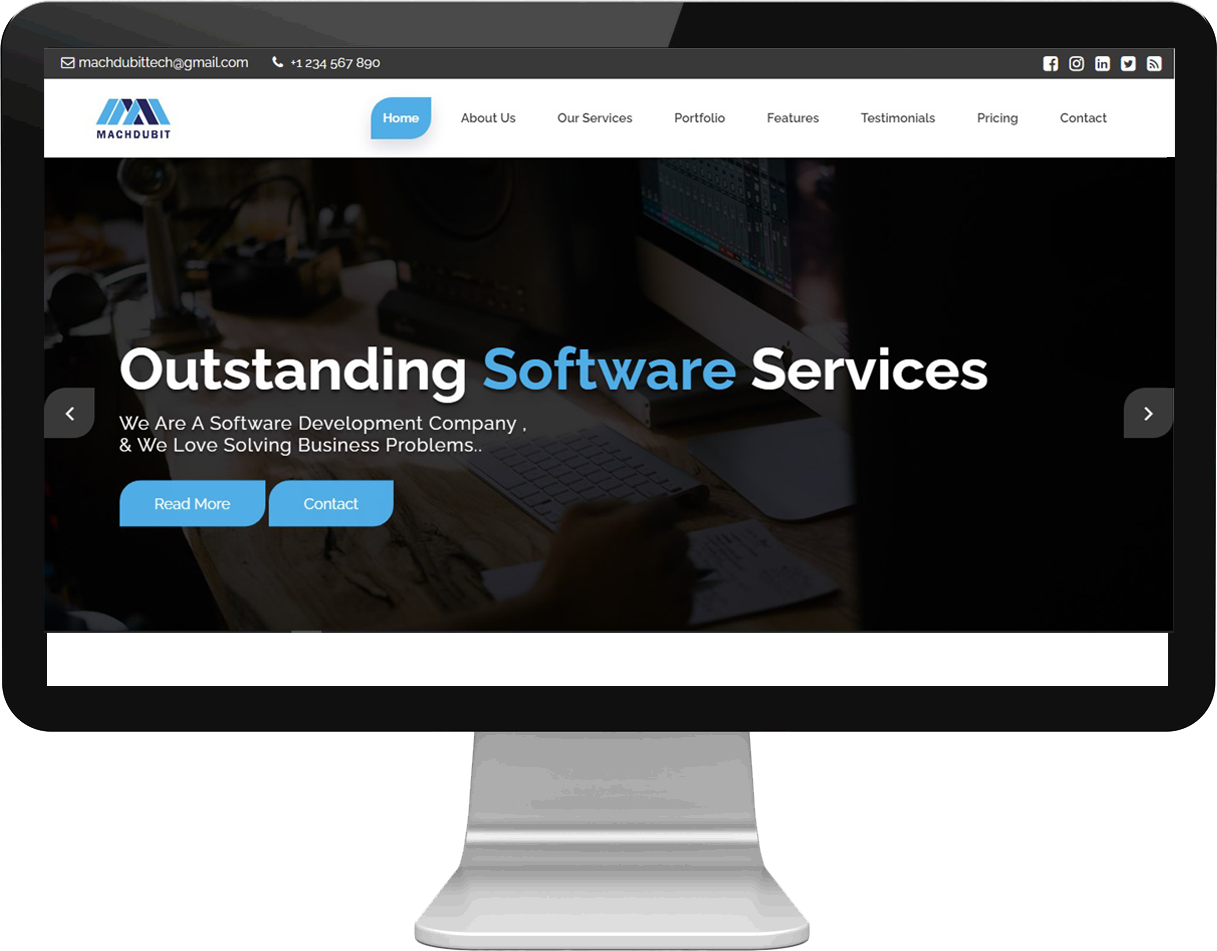
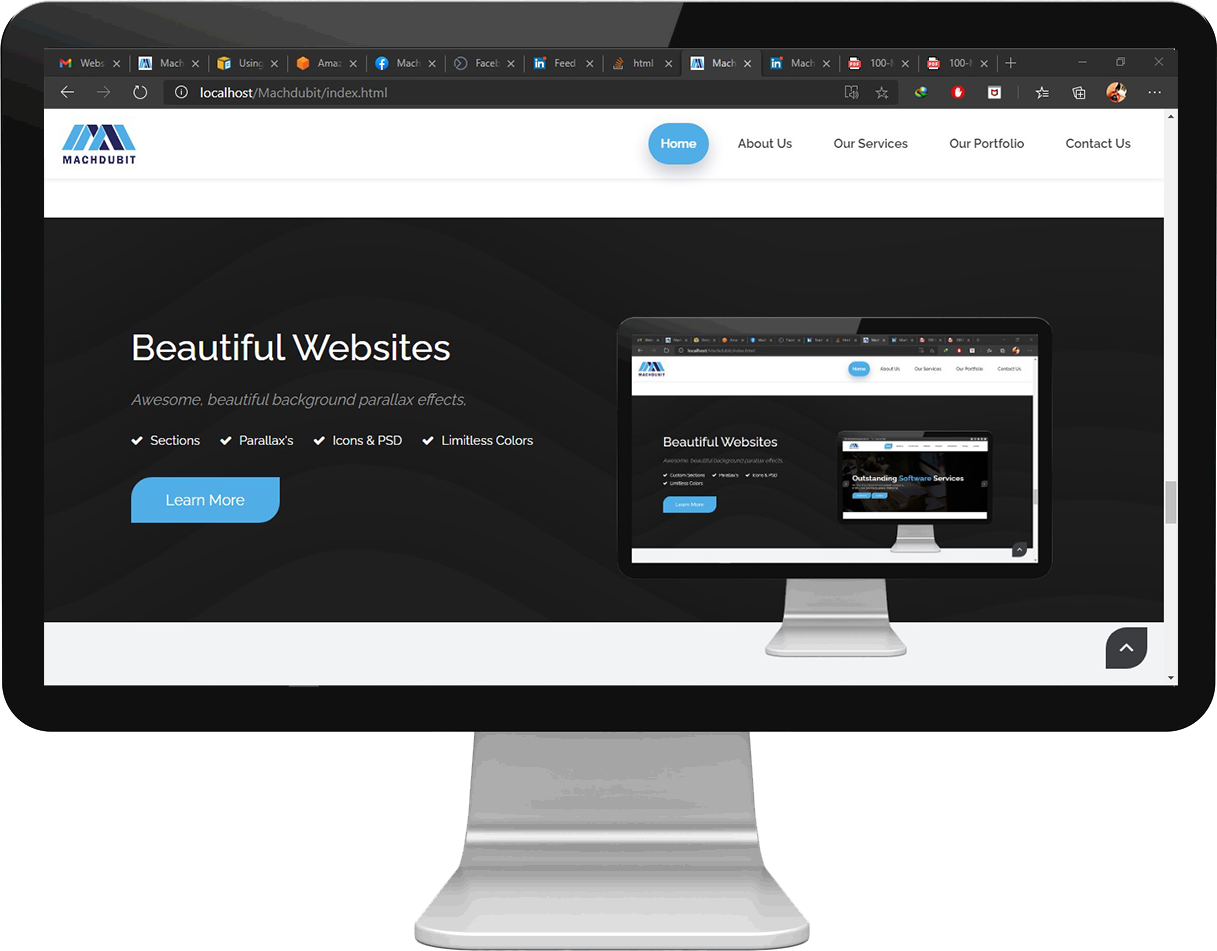
polishing

diff --git a/contact.html b/contact.html
@@ -202,8 +202,8 @@
     <div class="container">
         <div class="section-title text-center">
             <h3>Get in touch</h3>
-            <p class="lead">Let us give you more details about the special offer website you want us. Please fill out
-                the form below. <br>We have million of website owners who happy to work with us!</p>
+            <p class="lead">Please fill out
+                the form below, after submission a representantive will contact you through email adress provided. Please make sure you provide correct contact details to ensure you get a response from our team.</p>
         </div><!-- end title -->
 
         <div class="row">
@@ -284,22 +284,23 @@
 
                 <div class="address-item">
                     <div class="address-icon">
-                        <i aria-hidden="true" class="fa fa-envelope"></i>
-                    </div>
-                    <h3>Email Us</h3>
-                    <p>machdubittech@gmail.com
-                        <br></p>
-                </div>
-
-                <div class="address-item">
-                    <div class="address-icon">
                         <i class="icon icon-headphones"></i>
                     </div>
                     <h3>Call Us</h3>
                     <p>+263 77 480 2447
-                        <br>+263 71 634 9345</p>
+                        <br>+263 71 634 9345</p><br>
                 </div>
 
+                <div class="address-item">
+                    <div class="address-icon">
+                        <i aria-hidden="true" class="fa fa-envelope"></i>
+                    </div>
+                    <h3>Email Us</h3>
+                    <p>machdubittech@gmail.com
+                        </p><br><br>
+                </div>
+
+                
             </div>
         </div><!-- end row -->
 

diff --git a/index.html b/index.html
@@ -269,7 +269,7 @@
                         <img alt="" class="img-responsive img-rounded" src="uploads/service_03.jpg">
                     </div>
                     <div class="service-dit">
-                        <h3>Mobile App Development</h3>
+                        <h3><a class="about-text" href="services.html#firstRow">Mobile App Development</a> </h3>
                         <!--<p>The mobile industry is growing, rapidly changing the world of software development. More and
                             more often, mobile apps turn out to be synonyms of extremely successful companies, such as
                             Snapchat or Uber. Mobile visibility becomes crucial if you want to win new customers. With
@@ -647,10 +647,9 @@
                 <div class="col-md-6">
                     <div class="customwidget text-left">
                         <h1>Beautiful Websites</h1>
-                        <p>Full access control of the background parallax effects, <br>change your awesome background
-                            elements and edit colors from style.css or colors.css</p>
+                        <p>Awesome, beautiful background parallax effects, <br></p>
                         <ul class="list-inline">
-                            <li><i class="fa fa-check"></i> Custom Sections</li>
+                            <li><i class="fa fa-check"></i> Sections</li>
                             <li><i class="fa fa-check"></i> Parallax's</li>
                             <li><i class="fa fa-check"></i> Icons & PSD</li>
                             <li><i class="fa fa-check"></i> Limitless Colors</li>

diff --git a/about-us.html b/about-us.html
@@ -157,8 +157,7 @@
             <div class="col-md-6">
                 <div class="post-media wow fadeIn">
                     <img alt="" class="img-responsive img-rounded" src="uploads/about_0.jpg">
-                    <a class="playbutton" data-rel="prettyPhoto[gal]" href="http://www.youtube.com/watch?v=nrJtHemSPW4"><i
-                            class="flaticon-play-button"></i></a>
+                    
                 </div><!-- end media -->
             </div><!-- end col -->
         </div><!-- end row -->
